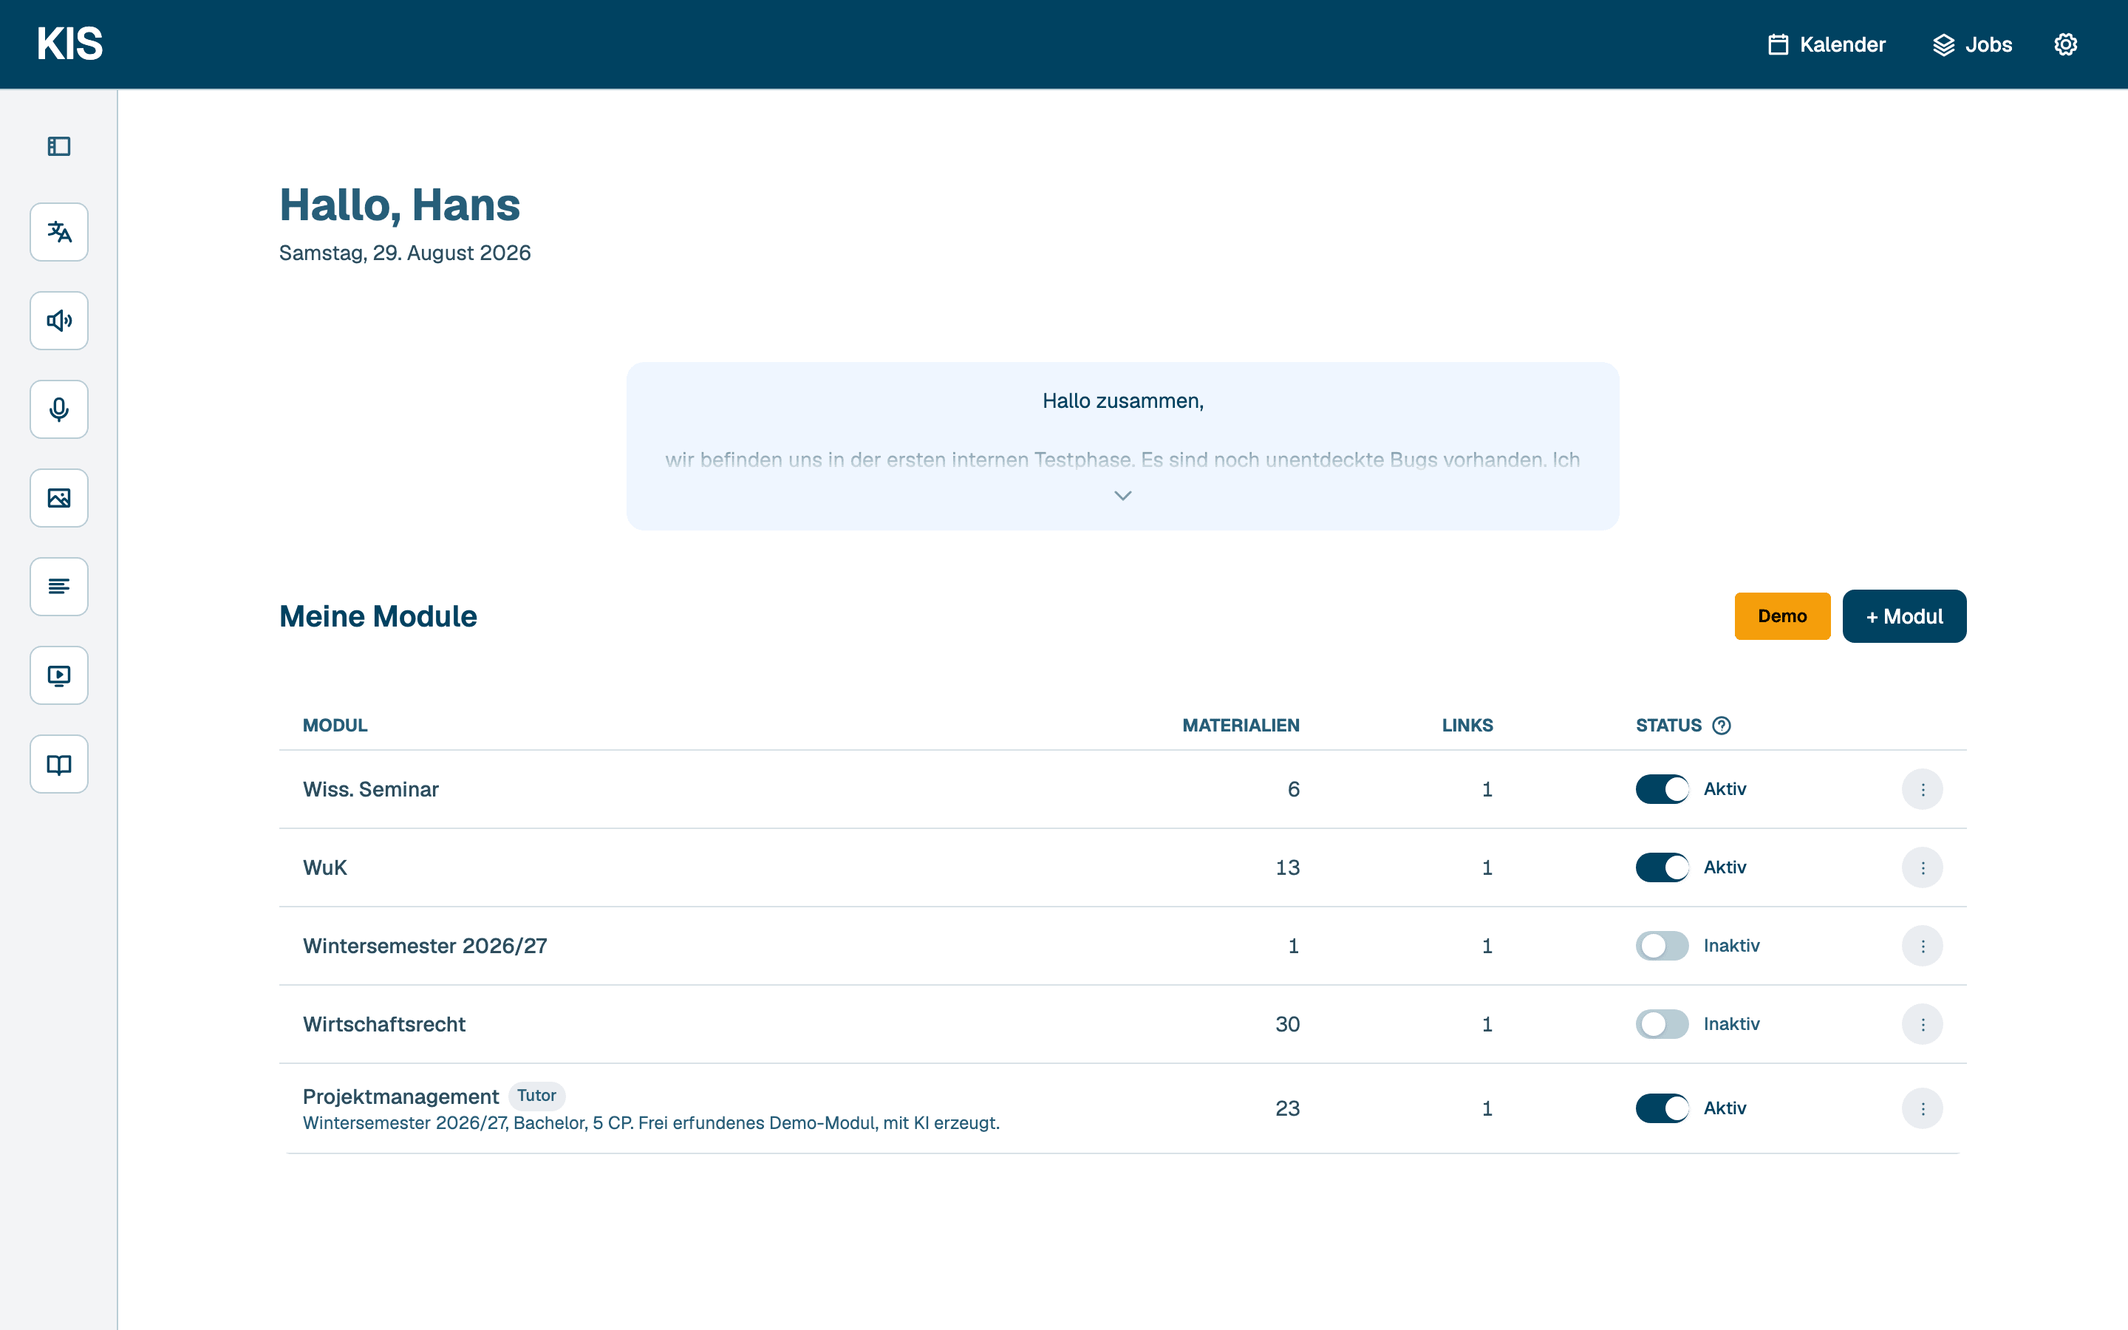
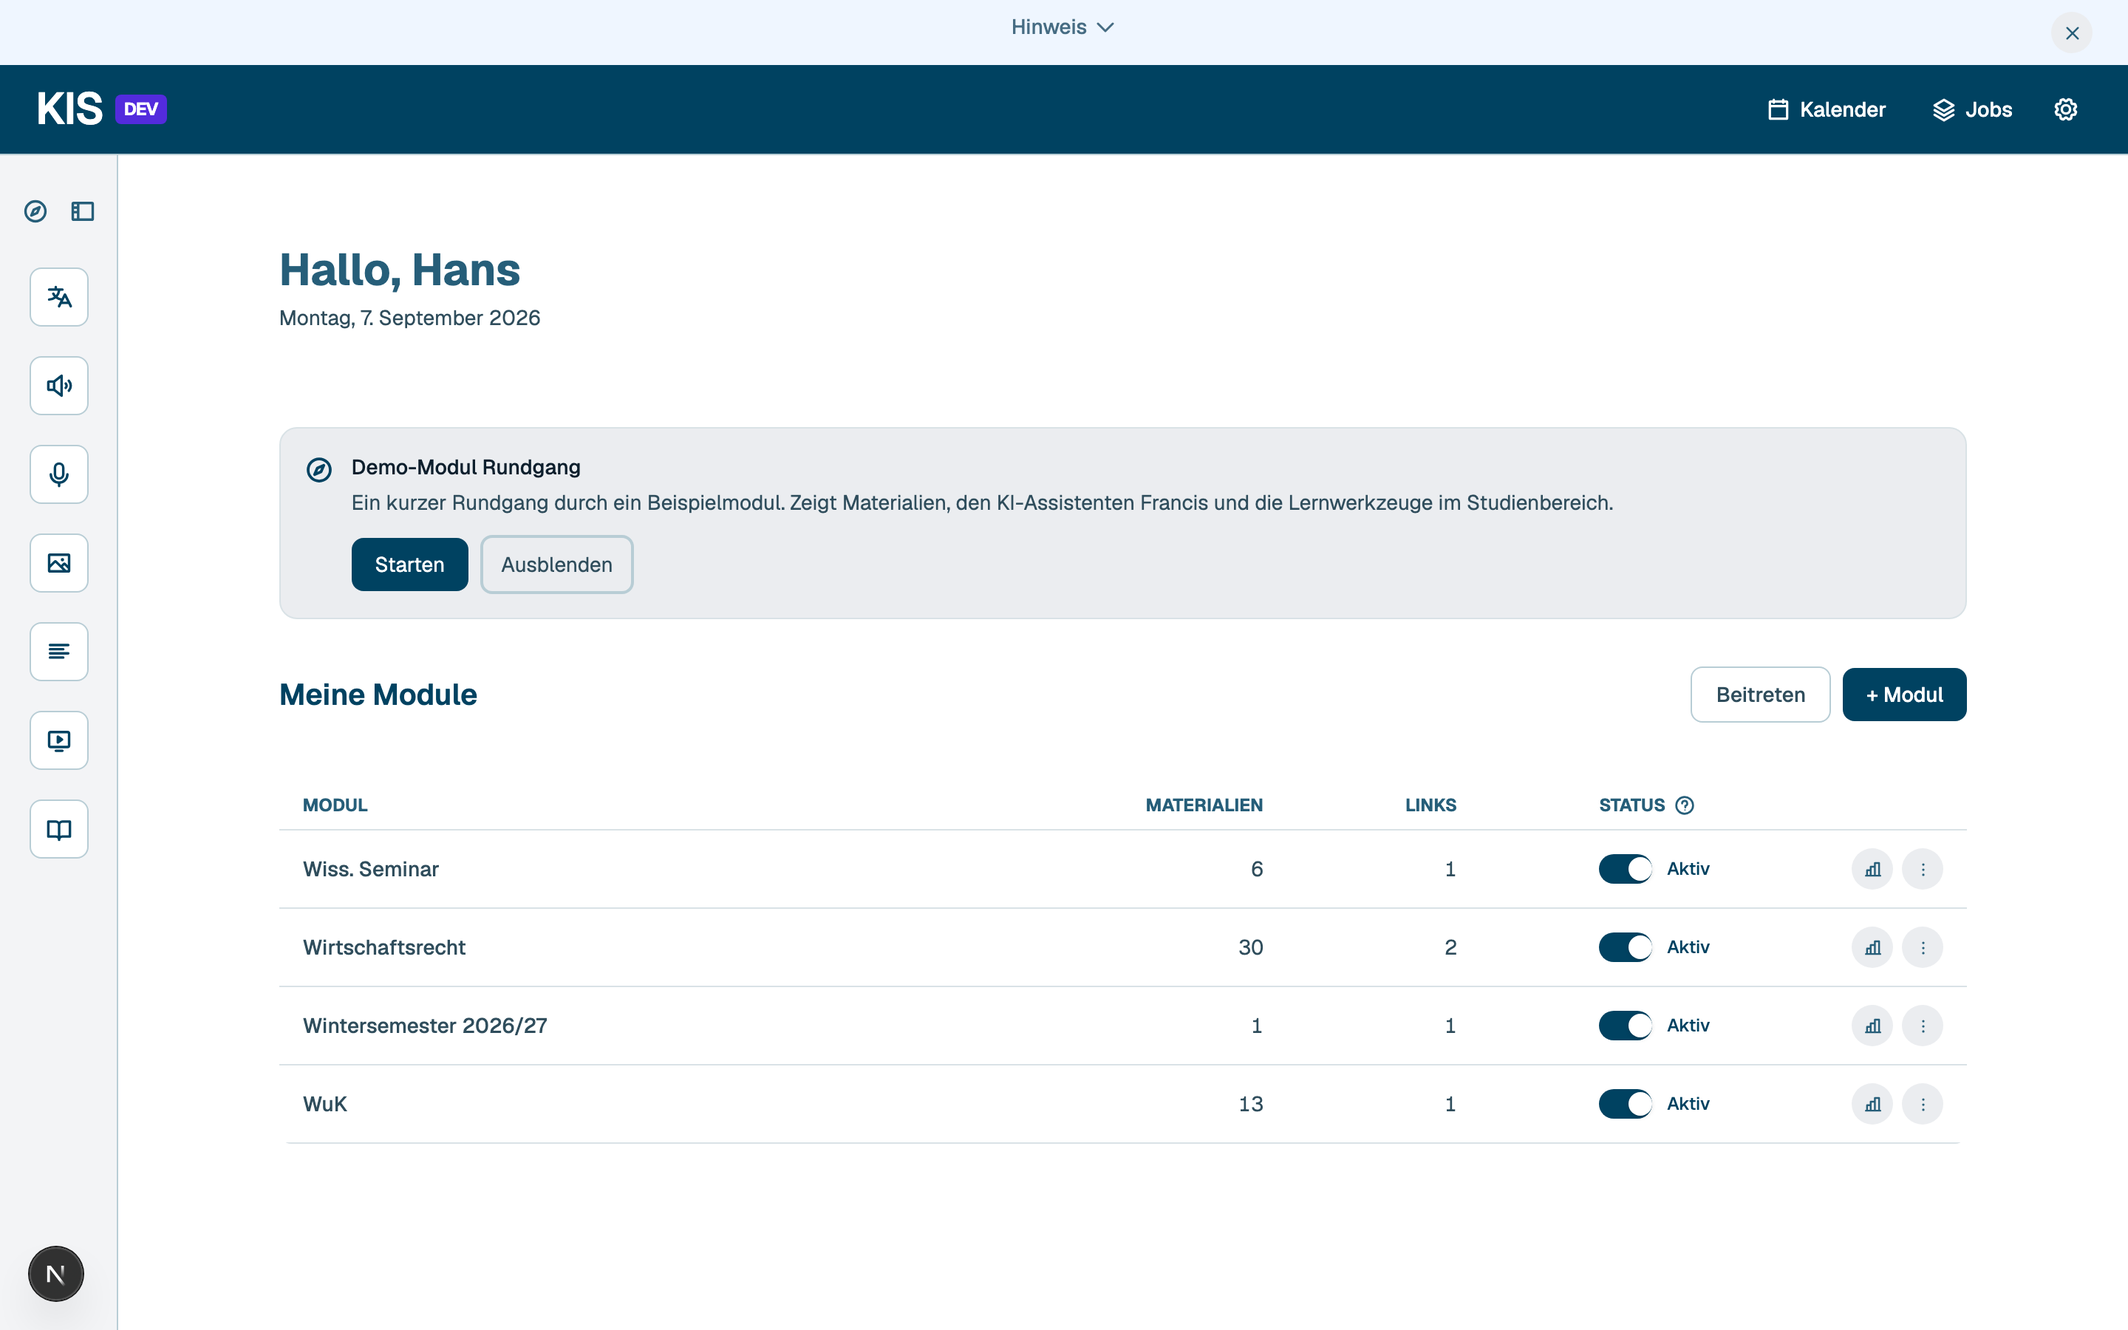
docs(handbuch): Beitreten, Freigeben, Modul-Statistik und Werkzeug-Rundgang beschrieben
- neue Seiten-Abschnitte samt Bildern fuer Beitreten, Freigeben und die Zahlen zum Modul
- erste Anmeldung nennt jetzt drei Karten und sagt, wer welche sieht
- Werkzeug-Uebersicht verweist auf den Rundgang
- Bild-Skript nimmt die drei neuen Bilder auf und schliesst vorher das Willkommen-Fenster
- Bilder, die Eigentum brauchen, nehmen ein eigenes Modul statt des Demo-Moduls

diff --git a/frontend/e2e/manual-images.spec.ts b/frontend/e2e/manual-images.spec.ts
@@ -10,6 +10,13 @@ const BASE = process.env.E2E_BASE_URL ?? "http://localhost:3000";
 // Das Demo-Modul "Projektmanagement", damit in den Bildern keine echten Kursdaten stehen.
 const WORKSPACE = process.env.E2E_WORKSPACE ?? "6f2d916b-94a3-403a-ab4d-9000699e5ef0";
 /**
+ * Das Demo-Modul gehoert dem Konto "demo", alle anderen sehen dort nur die Vorschau. Bilder, die
+ * echtes Eigentum brauchen, weil das Backend sonst 403 liefert (Freigeben, Modul-Statistik),
+ * nehmen darum ein eigenes Modul der angemeldeten Sitzung.
+ */
+const OWNED = process.env.E2E_OWNED_WORKSPACE ?? "1ea7b2fa-b237-4bbd-801b-c9793d388984";
+const OWNED_TITLE = process.env.E2E_OWNED_TITLE ?? "Wiss. Seminar";
+/**
  * Die gespeicherte Sitzung gehoert einem Konto mit allen Rechten, das die beiden Einladungen auf
  * der Startseite laengst beantwortet hat. Das Bild dazu braucht ein Studierenden-Konto, das noch
  * nicht geantwortet hat, also meldet sich der eine Test selbst an. Sind die Karten weg, holt
@@ -101,9 +108,22 @@ async function useLocale(page: Page, locale: string) {
   await page.context().addCookies([{ name: "NEXT_LOCALE", value: locale, url: BASE }]);
 }
 
+/** Shown once per browser profile and would otherwise sit on top of every start page picture. */
+async function closeWelcome(page: Page) {
+  const willkommen = page
+    .locator("[role=dialog]")
+    .filter({ hasText: /Willkommen bei KIS|Welcome to KIS/ });
+  if (await willkommen.count()) {
+    await willkommen.locator("button[aria-label]").first().click();
+    await expect(willkommen).toHaveCount(0);
+  }
+}
+
 async function settle(page: Page) {
   await expect(page.locator("header")).toBeVisible();
+  // The dialog only opens after its own fetch, so waiting has to come first.
   await page.waitForTimeout(2000);
+  await closeWelcome(page);
 }
 
 /** Opens the module, then a studio tile, then the first set inside it. */
@@ -219,6 +239,27 @@ test.describe("Handbuch-Bilder", () => {
       await page.locator("aside, nav").first().screenshot({ path: shot(locale, "tool-bar") });
     });
 
+    test(`modul-beitreten ${locale}`, async ({ page }) => {
+      await useLocale(page, locale);
+      await page.goto(`${prefix(locale)}/`, { waitUntil: "domcontentloaded" });
+      await settle(page);
+      await page.getByTestId("join-open").click();
+      await page.waitForTimeout(800);
+      await page.screenshot({ path: shot(locale, "join-module") });
+    });
+
+    test(`modul-statistik ${locale}`, async ({ page }) => {
+      await useLocale(page, locale);
+      await page.goto(`${prefix(locale)}/`, { waitUntil: "domcontentloaded" });
+      await settle(page);
+      await page.locator("tr", { hasText: OWNED_TITLE }).first()
+        .getByTestId("workspace-stats").click();
+      // Die Zahlen kommen nach, sonst steht die Ladeanzeige im Bild.
+      await expect(page.getByText(/Teilnehmer|Participants/).first()).toBeVisible({ timeout: 30_000 });
+      await page.waitForTimeout(1500);
+      await page.screenshot({ path: shot(locale, "module-stats") });
+    });
+
     test(`modul-anlegen ${locale}`, async ({ page }) => {
       await useLocale(page, locale);
       await page.goto(`${prefix(locale)}/`, { waitUntil: "domcontentloaded" });
@@ -327,6 +368,16 @@ test.describe("Handbuch-Bilder", () => {
       await page.getByRole("button", { name: /Erstellen|Create/ }).first().click();
       await page.waitForTimeout(1500);
       await page.screenshot({ path: shot(locale, "create-set") });
+    });
+
+    test(`modul-freigeben ${locale}`, async ({ page }) => {
+      await useLocale(page, locale);
+      await page.goto(`${prefix(locale)}/workspace/${OWNED}`, { waitUntil: "domcontentloaded" });
+      await page.waitForTimeout(4000);
+      await page.locator('[data-tour="share"]').first().click();
+      // Die Links werden erst beim Oeffnen geholt.
+      await page.waitForTimeout(2500);
+      await page.screenshot({ path: shot(locale, "share-module") });
     });
 
     test(`modul-einstellungen ${locale}`, async ({ page }) => {

diff --git a/frontend/src/content/manual/de/10-getting-started/20-first-login.md b/frontend/src/content/manual/de/10-getting-started/20-first-login.md
@@ -1,20 +1,30 @@
 # Nach der Anmeldung
 
-![Die Startseite beim ersten Besuch mit den beiden Karten](/manual/{lang}/first-login.png)
+![Die Startseite beim ersten Besuch, hier in der Sicht von Studierenden](/manual/{lang}/first-login.png)
 
-Beim ersten Besuch stehen über der Modulliste zwei Karten. Beide sind Angebote, beide sind nach
-einer Antwort endgültig weg, und beide bleiben danach über das Zahnrad oben rechts erreichbar.
+Beim ersten Besuch stehen über der Modulliste Karten mit Angeboten. Welche Sie davon sehen, hängt
+daran, was Sie auf der Plattform dürfen. Jede ist nach einer Antwort endgültig weg und danach
+über das Zahnrad oben rechts wieder erreichbar.
 
-## Demo-Modul Rundgang
+## Rundgang durchs Demo-Modul
 
+- Für alle, Studierende wie Lehrende, solange die Verwaltung ein Demo-Modul bereitstellt
 - Führt durch ein erfundenes Beispielmodul, keine echten Kursdaten
 - **Starten** schreibt Sie in das Demo-Modul ein, danach steht es in Ihrer Modulliste
 - Wer selbst Module anlegen darf, bekommt zusätzlich die Stationen zu den Knöpfen für Lehrende
 - Mittendrin abgebrochen bleibt die Karte stehen, erst das Ende oder **Ausblenden** nimmt sie weg
 
+## Rundgang durch die Werkzeuge
+
+- Nur für Lehrende, Studierende haben keine Werkzeuge und bekommen die Karte deshalb nicht zu sehen
+- **Starten** öffnet ein Werkzeug nach dem anderen und erklärt an jedem, was es annimmt und wo das
+  Ergebnis landet
+- Führt nur durch die Werkzeuge, die für Sie freigeschaltet sind, und endet bei den Aufträgen
+- Mittendrin abgebrochen bleibt die Karte stehen, erst das Ende oder **Ausblenden** nimmt sie weg
+
 ## Sprachtrainer
 
-- Für alle, die auf Deutsch als Fremdsprache studieren
+- Für Studierende, die auf Deutsch als Fremdsprache studieren. Lehrende sehen die Karte nicht
 - **Sprachtest starten** führt sofort in den Test, das Ergebnis wird Ihr Sprachniveau
 - Das Niveau bestimmt danach, wie der Assistent im Modul erklärt und wie Karteikarten, Quiz und
   Übungen formuliert sind

diff --git a/frontend/src/content/manual/en/10-getting-started/20-first-login.md b/frontend/src/content/manual/en/10-getting-started/20-first-login.md
@@ -1,20 +1,31 @@
 # After signing in
 
-![The start page on a first visit with both cards](/manual/{lang}/first-login.png)
+![The start page on a first visit, here as students see it](/manual/{lang}/first-login.png)
 
-On a first visit two cards sit above the module list. Both are offers, both are gone for good once
-you answer, and both stay reachable afterwards through the gear icon in the top right.
+On a first visit cards with offers sit above the module list. Which of them you see depends on what
+you are allowed to do on the platform. Each one is gone for good once you answer and stays
+reachable afterwards through the gear icon in the top right.
 
-## Demo module tour
+## Tour through the demo module
 
+- For everyone, students and teaching staff alike, as long as the administration provides a demo
+  module
 - Walks through an invented sample module, no real course data
 - **Start** enrols you in the demo module, it stays in your module list afterwards
 - Anyone allowed to create modules also gets the stops about the teaching buttons
 - Broken off halfway the card stays, only the last stop or **Hide** takes it away
 
+## Tour through the tools
+
+- For teaching staff only, students have no tools and therefore never see the card
+- **Start** opens one tool after another and explains at each what it takes and where the result
+  ends up
+- It only walks through the tools released for you and ends at the jobs entry
+- Broken off halfway the card stays, only the last stop or **Hide** takes it away
+
 ## Language trainer
 
-- For everyone studying in German as a foreign language
+- For students studying in German as a foreign language. Teaching staff do not see the card
 - **Start the language test** leads straight into the test, the result becomes your language level
 - The level then decides how the assistant in a module explains and how flashcards, quizzes and
   exercises are worded

diff --git a/frontend/src/content/manual/de/40-tools/05-tools-overview.md b/frontend/src/content/manual/de/40-tools/05-tools-overview.md
@@ -13,6 +13,19 @@ Modulen: Sie laden eine Datei hoch, bekommen ein Ergebnis und laden es herunter.
 - **Screencast** macht aus Folien ein vertontes Video
 - **Glossar** pflegt Begriffslisten für die Übersetzung
 
+## Rundgang durch die Werkzeuge
+
+Der Rundgang öffnet jedes Werkzeug selbst und sagt an Ort und Stelle, was es annimmt und wo das
+Ergebnis landet. Der Name in der Leiste verrät das nicht.
+
+- Beim ersten Besuch steht die Einladung als Karte auf der Startseite, danach starten Sie ihn
+  jederzeit über das Zahnrad oben rechts
+- Er führt nur durch die Werkzeuge, die für Sie freigeschaltet sind, und endet bei den Aufträgen
+- Mittendrin abgebrochen bleibt die Karte auf der Startseite stehen, erst die letzte Station oder
+  **Ausblenden** nimmt sie weg
+- Nur Lehrende bekommen ihn zu sehen, denn Studierende haben keine Werkzeuge. Umgekehrt ist die
+  Karte zum Sprachtrainer den Studierenden vorbehalten
+
 ## Was für alle gilt
 
 Sie sehen nur die Werkzeuge, die für Sie freigeschaltet sind. Fehlt eines, entscheidet darüber

diff --git a/frontend/src/content/manual/en/20-modules/95-module-statistics.md b/frontend/src/content/manual/en/20-modules/95-module-statistics.md
@@ -7,8 +7,20 @@ right, where it gets stuck.
 
 ## Your own state only
 
-Even for teachers this tab shows only their own numbers, not the participants'. An overview of
-the whole group is under Statistics → My modules, reached through the gear at the top right.
+Even for teachers this tab shows only their own numbers, not the participants'.
+
+## The numbers of the whole group
+
+![The statistics of one module](/manual/{lang}/module-stats.png)
+
+The chart icon in the module row on the start page opens the numbers of the whole module. Owners
+and tutors get in there, no admin right is needed for it.
+
+- **Count teaching staff** is ticked by default. Unticked, owners and tutors stay out, because
+  while building they answer their own exercises and bend every number
+- Created and answered are kept apart. Created belongs to the module and stays the same without
+  the teaching staff
+- The material list shows how far the files are processed, not just their names
 
 ## What it is not
 

diff --git a/frontend/src/content/manual/de/20-modules/95-module-statistics.md b/frontend/src/content/manual/de/20-modules/95-module-statistics.md
@@ -8,7 +8,19 @@ davon richtig war, wo es hakt.
 ## Nur der eigene Stand
 
 Auch für Lehrende zeigt dieser Reiter nur die eigenen Zahlen, nicht die der Teilnehmenden.
-Einen Überblick über die ganze Gruppe gibt Statistik → Meine Module, erreichbar über das Zahnrad oben rechts.
+
+## Die Zahlen der ganzen Gruppe
+
+![Die Statistik zu einem Modul](/manual/{lang}/module-stats.png)
+
+Das Diagramm-Symbol in der Modulzeile auf der Startseite öffnet die Zahlen des ganzen Moduls.
+Eigentümer und Tutoren kommen dort hinein, ein Adminrecht braucht es dafür nicht.
+
+- **Lehrende mitzählen** ist voreingestellt. Ohne Haken bleiben Eigentümer und Tutoren draußen,
+  denn beim Aufbau beantworten sie ihre eigenen Aufgaben und verschieben damit jede Zahl
+- Erzeugt und beantwortet stehen getrennt. Erzeugt gehört dem Modul und ändert sich auch ohne
+  Lehrende nicht
+- Die Materialliste zeigt, was von den Dateien schon verarbeitet ist, nicht nur ihre Namen
 
 ## Was es nicht ist
 

diff --git a/frontend/src/content/manual/de/20-modules/10-create-module.md b/frontend/src/content/manual/de/20-modules/10-create-module.md
@@ -9,6 +9,18 @@ Auf der Startseite über **+ Modul**, mit Name und kurzer Beschreibung.
 Niemand wird von Hand eingetragen. Sie erzeugen einen **Einschreibelink** und geben ihn weiter.
 Wer ihn öffnet, schreibt sich selbst ein.
 
+Jeder Link steht zweimal da, als ganze Adresse und als kurzer Code daneben, beides mit einem Klick
+kopiert. Der Code ist für die Wege ohne Klick, auf einer Folie, an der Tafel, im Seminar
+vorgelesen. Damit kommt man über **Beitreten** auf der Startseite herein.
+
+## Freigeben aus dem Modul heraus
+
+![Freigeben im geöffneten Modul](/manual/{lang}/share-module.png)
+
+Im geöffneten Modul sitzt neben dem Zahnrad ein Knopf **Freigeben**. Er legt Einschreibelinks und
+Teilnehmerliste in ein Fenster, dazu den Schalter aktiv, damit ein Link nicht ins Leere führt.
+Eigentümer und Tutoren sehen ihn, sonst niemand.
+
 Unter Teilnehmer machen Sie einzelne Personen zu **Tutoren**. Tutoren dürfen alles außer löschen
 und weitere Tutoren ernennen.
 

diff --git a/frontend/src/content/manual/en/40-tools/05-tools-overview.md b/frontend/src/content/manual/en/40-tools/05-tools-overview.md
@@ -13,6 +13,18 @@ modules: you upload a file, get a result and download it.
 - **Screencast** turns slides into a narrated video
 - **Glossary** keeps term lists for translation
 
+## Tour through the tools
+
+The tour opens every tool itself and says on the spot what it takes and where the result ends up.
+The name in the bar does not tell you that.
+
+- On a first visit the invitation sits as a card on the start page, afterwards you start it any
+  time through the gear icon in the top right
+- It only walks through the tools released for you and ends at the jobs entry
+- Broken off halfway the card on the start page stays, only the last stop or **Hide** takes it away
+- Only teaching staff get to see it, because students have no tools. The other way round, the
+  language trainer card is reserved for students
+
 ## What applies to all of them
 
 You only see the tools released for you. If one is missing, the administration decides about it.

diff --git a/frontend/src/content/manual/en/20-modules/10-create-module.md b/frontend/src/content/manual/en/20-modules/10-create-module.md
@@ -9,6 +9,18 @@ On the start page through **+ Module**, with a name and a short description.
 Nobody is entered by hand. You create an **enrolment link** and pass it on. Whoever opens it
 enrols themselves.
 
+Every link is shown twice, as the full address and as a short code next to it, both copied with one
+click. The code is for the ways without a click, on a slide, on the board, read out in class. With
+it people get in through **Join** on the start page.
+
+## Sharing from inside the module
+
+![Sharing inside an opened module](/manual/{lang}/share-module.png)
+
+Inside an opened module a **Share** button sits next to the gear. It puts the enrolment links and
+the participant list into one window, together with the active switch, so a link never leads
+nowhere. Owners and tutors see it, nobody else.
+
 Under participants you make single people **tutors**. Tutors may do everything except deleting
 and appointing further tutors.
 

diff --git a/frontend/src/content/manual/de/20-modules/05-interface.md b/frontend/src/content/manual/de/20-modules/05-interface.md
@@ -6,6 +6,19 @@
 - **Rechts oben**: Kalender, Jobs, Zahnrad (Sprache, Hell/Dunkel, Dokumentation, Abmelden, bei
   Rechten zusätzlich Statistik oder Verwaltung)
 
+## In ein Modul kommen
+
+![Beitreten mit Link oder Code](/manual/{lang}/join-module.png)
+
+Neben **+ Modul** sitzt **Beitreten**. Dort setzen Sie ein, was Sie bekommen haben, die ganze
+Adresse oder nur den Code daraus.
+
+- Groß oder klein geschrieben ist egal, ein Leerzeichen mitten im Code stört auch nicht
+- Ein unbekannter Code sagt das im Fenster, die Seite wechselt nicht
+- Danach kommt die Einschreibekarte mit Modulname und Lehrperson, erst der Knopf darauf schreibt
+  Sie ein
+- Wer noch in keinem Modul ist, findet dasselbe Feld direkt in der leeren Liste
+
 ## Aktiv und inaktiv
 
 Der Schalter hinter jedem Modul sperrt es für Teilnehmende. Nichts wird gelöscht, ein Klick gibt

diff --git a/frontend/src/content/manual/en/20-modules/05-interface.md b/frontend/src/content/manual/en/20-modules/05-interface.md
@@ -6,6 +6,19 @@
 - **Top right**: calendar, jobs, gear (language, light/dark, documentation, sign out, plus
   statistics or administration if you have the right)
 
+## Getting into a module
+
+![Joining with a link or a code](/manual/{lang}/join-module.png)
+
+Next to **+ Module** sits **Join**. Paste in what you were given, the whole address or just the
+code from it.
+
+- Upper or lower case makes no difference, and a space in the middle of the code does no harm
+- An unknown code says so inside the window, the page does not change
+- After that comes the enrolment card with the module name and the teacher, only the button on it
+  enrols you
+- If you are not in any module yet, the same field sits right in the empty list
+
 ## Active and inactive
 
 The switch behind each module locks it for participants. Nothing is deleted, one click releases
